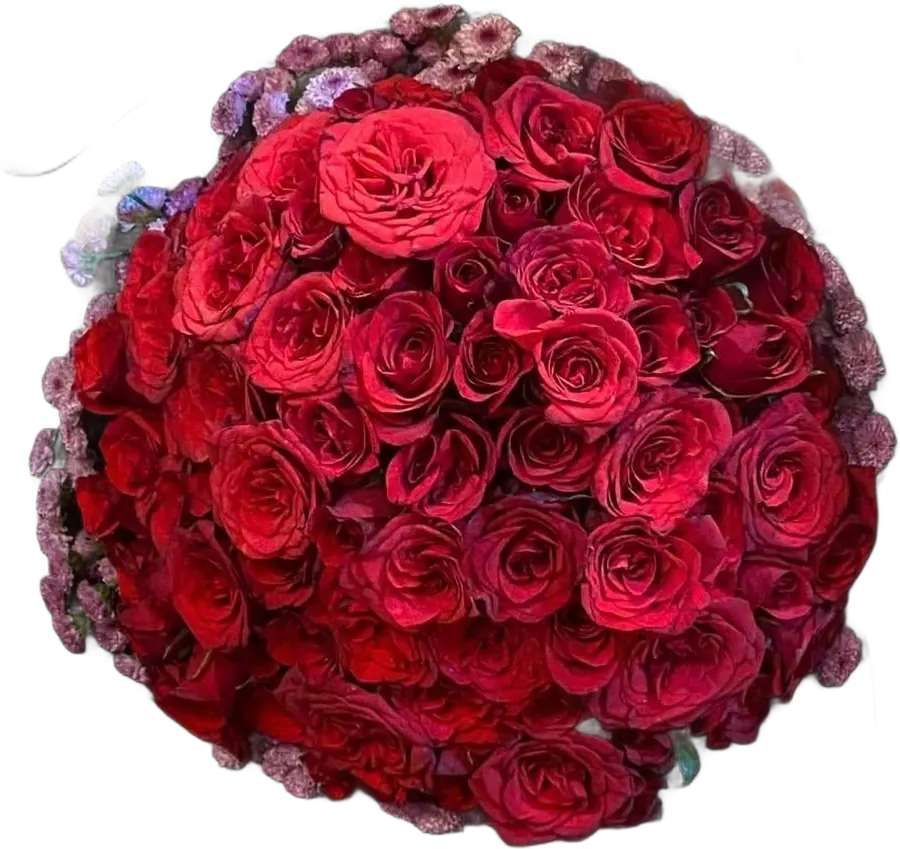
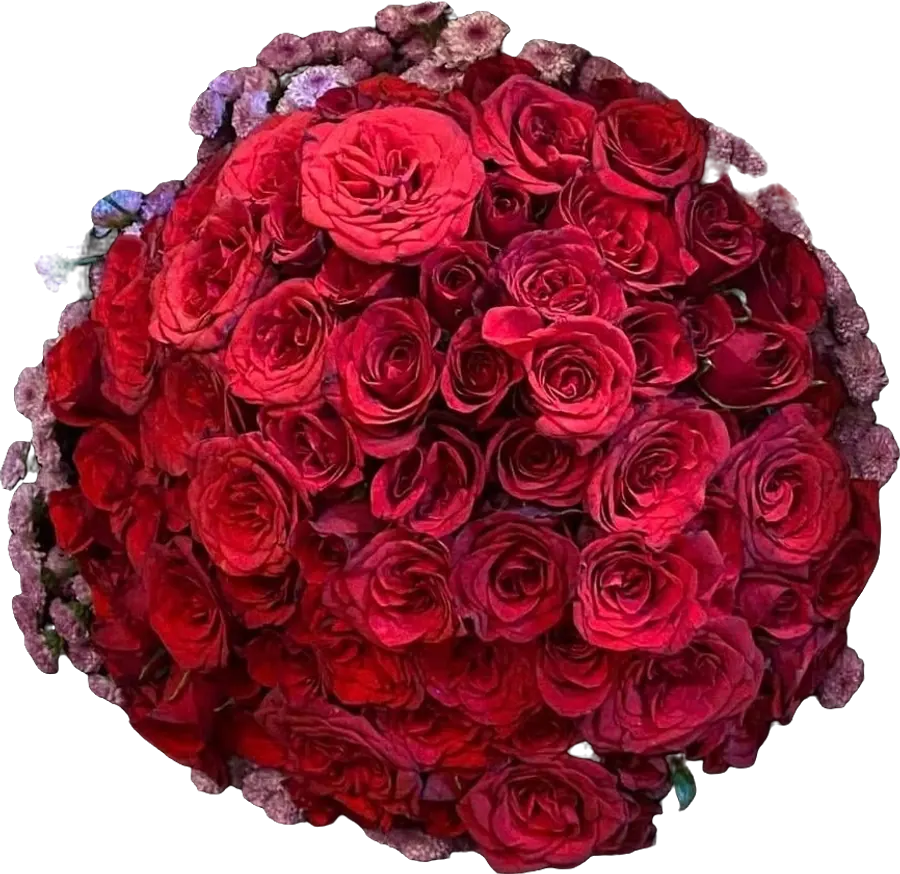
fix: cleaner cut-outs, tidy names, one chat button on phones
From the weakness check on the new home page:

- Cut-outs: the faint haze the cutting tool leaves around flowers is
  dropped (edges hardened), so the lilies, lychee and pink roses stand
  clean on the yellow panel. The sunflower basket leaves the rail (its
  photo has a cupcake and a candle in front) and shows its photo on the
  shelf until a clean one exists.
- Names typed all in capitals ("THE 100 LYCHEE BOUQUET") show in title
  case on the home page (lib/product-name.ts); other names are untouched.
- The scrolling trust strip under the opening is removed: the trust row
  under the buttons says the same.
- Phones show only the WhatsApp chat button, a little smaller; two
  stacked buttons covered the text beside them.

diff --git a/src/app/[locale]/page.tsx b/src/app/[locale]/page.tsx
@@ -10,6 +10,7 @@ import HeroRail, { type RailItem } from "@/components/storefront/HeroRail";
 import Shelf, { type ShelfItem } from "@/components/storefront/Shelf";
 import SameDayLine from "@/components/storefront/SameDayLine";
 import { cutoutFor } from "@/lib/cutouts";
+import { displayName } from "@/lib/product-name";
 import { expressCutoffLabel } from "@/lib/delivery";
 import { whatsAppUrl } from "@/lib/contact";
 import NewsletterForm from "@/components/storefront/NewsletterForm";
@@ -17,8 +18,6 @@ import RecentlyViewedStrip from "@/components/storefront/RecentlyViewedStrip";
 import Ornament from "@/components/storefront/Ornament";
 import JsonLd from "@/components/seo/JsonLd";
 import { SITE_URL as BASE } from "@/lib/site-url";
-import { getCommerceSettings } from "@/lib/commerce";
-import { formatBdt } from "@/lib/utils";
 import { deliveryScope, scopedKey } from "@/lib/delivery-scope";
 
 // ISR: the homepage fires several catalogue queries per request and reads no
@@ -76,7 +75,6 @@ export async function generateMetadata({ params }: Props): Promise<Metadata> {
   };
 }
 
-const MARQUEE_KEYS = ["atelierMade", "cod", "gift", "freeDelivery", "returns", "certified"];
 // The third "How it works" point is the delivery promise.
 const DELIVERY_FEATURE = 3;
 
@@ -87,14 +85,6 @@ export default async function Home({ params }: Props) {
   const { locale } = await params;
   setRequestLocale(locale);
   const t = await getTranslations();
-  const commerce = await getCommerceSettings();
-  const freeOver = formatBdt(commerce.freeShippingThresholdBdt, locale as "en" | "bn");
-  // The bn message formats {days, number}, so this stays a number.
-  const returnDays = commerce.returnWindowDays;
-  // A threshold of 0 switches free shipping off: drop that marquee point.
-  const marqueeKeys = commerce.freeShippingThresholdBdt > 0
-    ? MARQUEE_KEYS
-    : MARQUEE_KEYS.filter((k) => k !== "freeDelivery");
 
   const [segments, live, occasions] = await Promise.all([
     safeQuery(getVisibleSegments()),
@@ -111,7 +101,7 @@ export default async function Home({ params }: Props) {
   const heroImages = products.length > 0
     ? await safeQuery(getHeroImagesFor(products.map((p) => p.id))) ?? new Map()
     : new Map();
-  const nameOf = (p: { name: string; nameBn: string | null }) => (locale === "bn" && p.nameBn) || p.name;
+  const nameOf = (p: { name: string; nameBn: string | null }) => (locale === "bn" && p.nameBn) || displayName(p.name);
   const priceOf = (p: Parameters<typeof priceDisplay>[0]) => {
     const display = priceDisplay(p);
     return display.kind === "quote" ? t("pdp.priceOnQuote") : priceDisplayText(display, locale as "en" | "bn");
@@ -193,16 +183,6 @@ export default async function Home({ params }: Props) {
           </div>
         )}
       </section>
-
-      {/* ─── Marquee: concise trust points ──────────────────────── */}
-      <div className="marquee" data-cursor="default">
-        <div className="marquee-track">
-          {/* Listed twice so the scrolling track loops seamlessly. */}
-          {[...marqueeKeys, ...marqueeKeys].map((k, i) => (
-            <span key={k + i} aria-hidden={i >= marqueeKeys.length || undefined}>{t(scopedKey(`home.marquee.${k}`, scope, k === "certified" ? ["dhaka"] : []), { threshold: freeOver, days: returnDays })}</span>
-          ))}
-        </div>
-      </div>
 
       {/* ─── The shelf: every bouquet in a row ───────────────────── */}
       {shelf.length > 0 && (

diff --git a/src/lib/cutouts.ts b/src/lib/cutouts.ts
@@ -1,6 +1,7 @@
 /**
  * Cut-out pictures of products: the shop's own photos with the background removed
- * (social-studio/photos/*-cut.png), as transparent WebP in two sizes in /public/cutouts.
+ * (social-studio/photos/*-cut.png), edges hardened (the faint haze the cutting tool leaves
+ * is dropped), as transparent WebP in two sizes in /public/cutouts.
  * The home page's rail and shelf stand them on the page. A product without one shows
  * its normal photo on the shelf and is left out of the rail.
  *
@@ -25,11 +26,11 @@ const cut = (slug: string, width: number, height: number): Cutout => ({
 });
 
 const CUTOUTS: Readonly<Record<string, Cutout>> = {
-  "the-100-rose-special": cut("the-100-rose-special", 900, 849),
-  "multicolor-lily-bouquet": cut("multicolor-lily-bouquet", 722, 900),
-  "the-100-lychee-bouquet": cut("the-100-lychee-bouquet", 710, 900),
-  "pink-rose-bouquet": cut("pink-rose-bouquet", 658, 900),
-  "sunflower-bouquet": cut("sunflower-bouquet", 638, 900),
+  "the-100-rose-special": cut("the-100-rose-special", 900, 874),
+  "multicolor-lily-bouquet": cut("multicolor-lily-bouquet", 753, 900),
+  "the-100-lychee-bouquet": cut("the-100-lychee-bouquet", 900, 860),
+  "pink-rose-bouquet": cut("pink-rose-bouquet", 572, 900),
+  // The sunflower basket's photo has a cupcake and a candle in front: no cut-out until a clean photo.
 };
 
 export function cutoutFor(slug: string): Cutout | null {

diff --git a/src/styles/extras.css b/src/styles/extras.css
@@ -680,9 +680,12 @@
 }
 .fc-btn:hover .fc-tooltip { opacity: 1; }
 @media (max-width: 640px) {
-  .floating-chat { right: 16px; bottom: 66px; }
-  .fc-btn { width: 48px; height: 48px; }
+  .floating-chat { right: 12px; bottom: 66px; }
+  .fc-btn { width: 44px; height: 44px; }
   .fc-tooltip { display: none; }
+  /* One button on phones: WhatsApp is the shop's main channel, and two stacked buttons
+     covered the text beside them. Messenger stays on wide screens. */
+  .fc-messenger { display: none; }
 }
 
 /* Cookie consent banner */

diff --git a/src/lib/product-name.ts b/src/lib/product-name.ts
@@ -1,0 +1,10 @@
+/**
+ * A product name for display. Names typed all in capitals ("THE 100 LYCHEE BOUQUET") are shown in
+ * title case beside the others; any other name is shown exactly as typed. Bangla has no capitals,
+ * so it is never changed.
+ */
+export function displayName(name: string): string {
+  const letters = name.replace(/[^A-Za-z]/g, "");
+  if (letters.length < 3 || letters !== letters.toUpperCase()) return name;
+  return name.toLowerCase().replace(/([a-z])/g, (c) => c.toUpperCase());
+}
